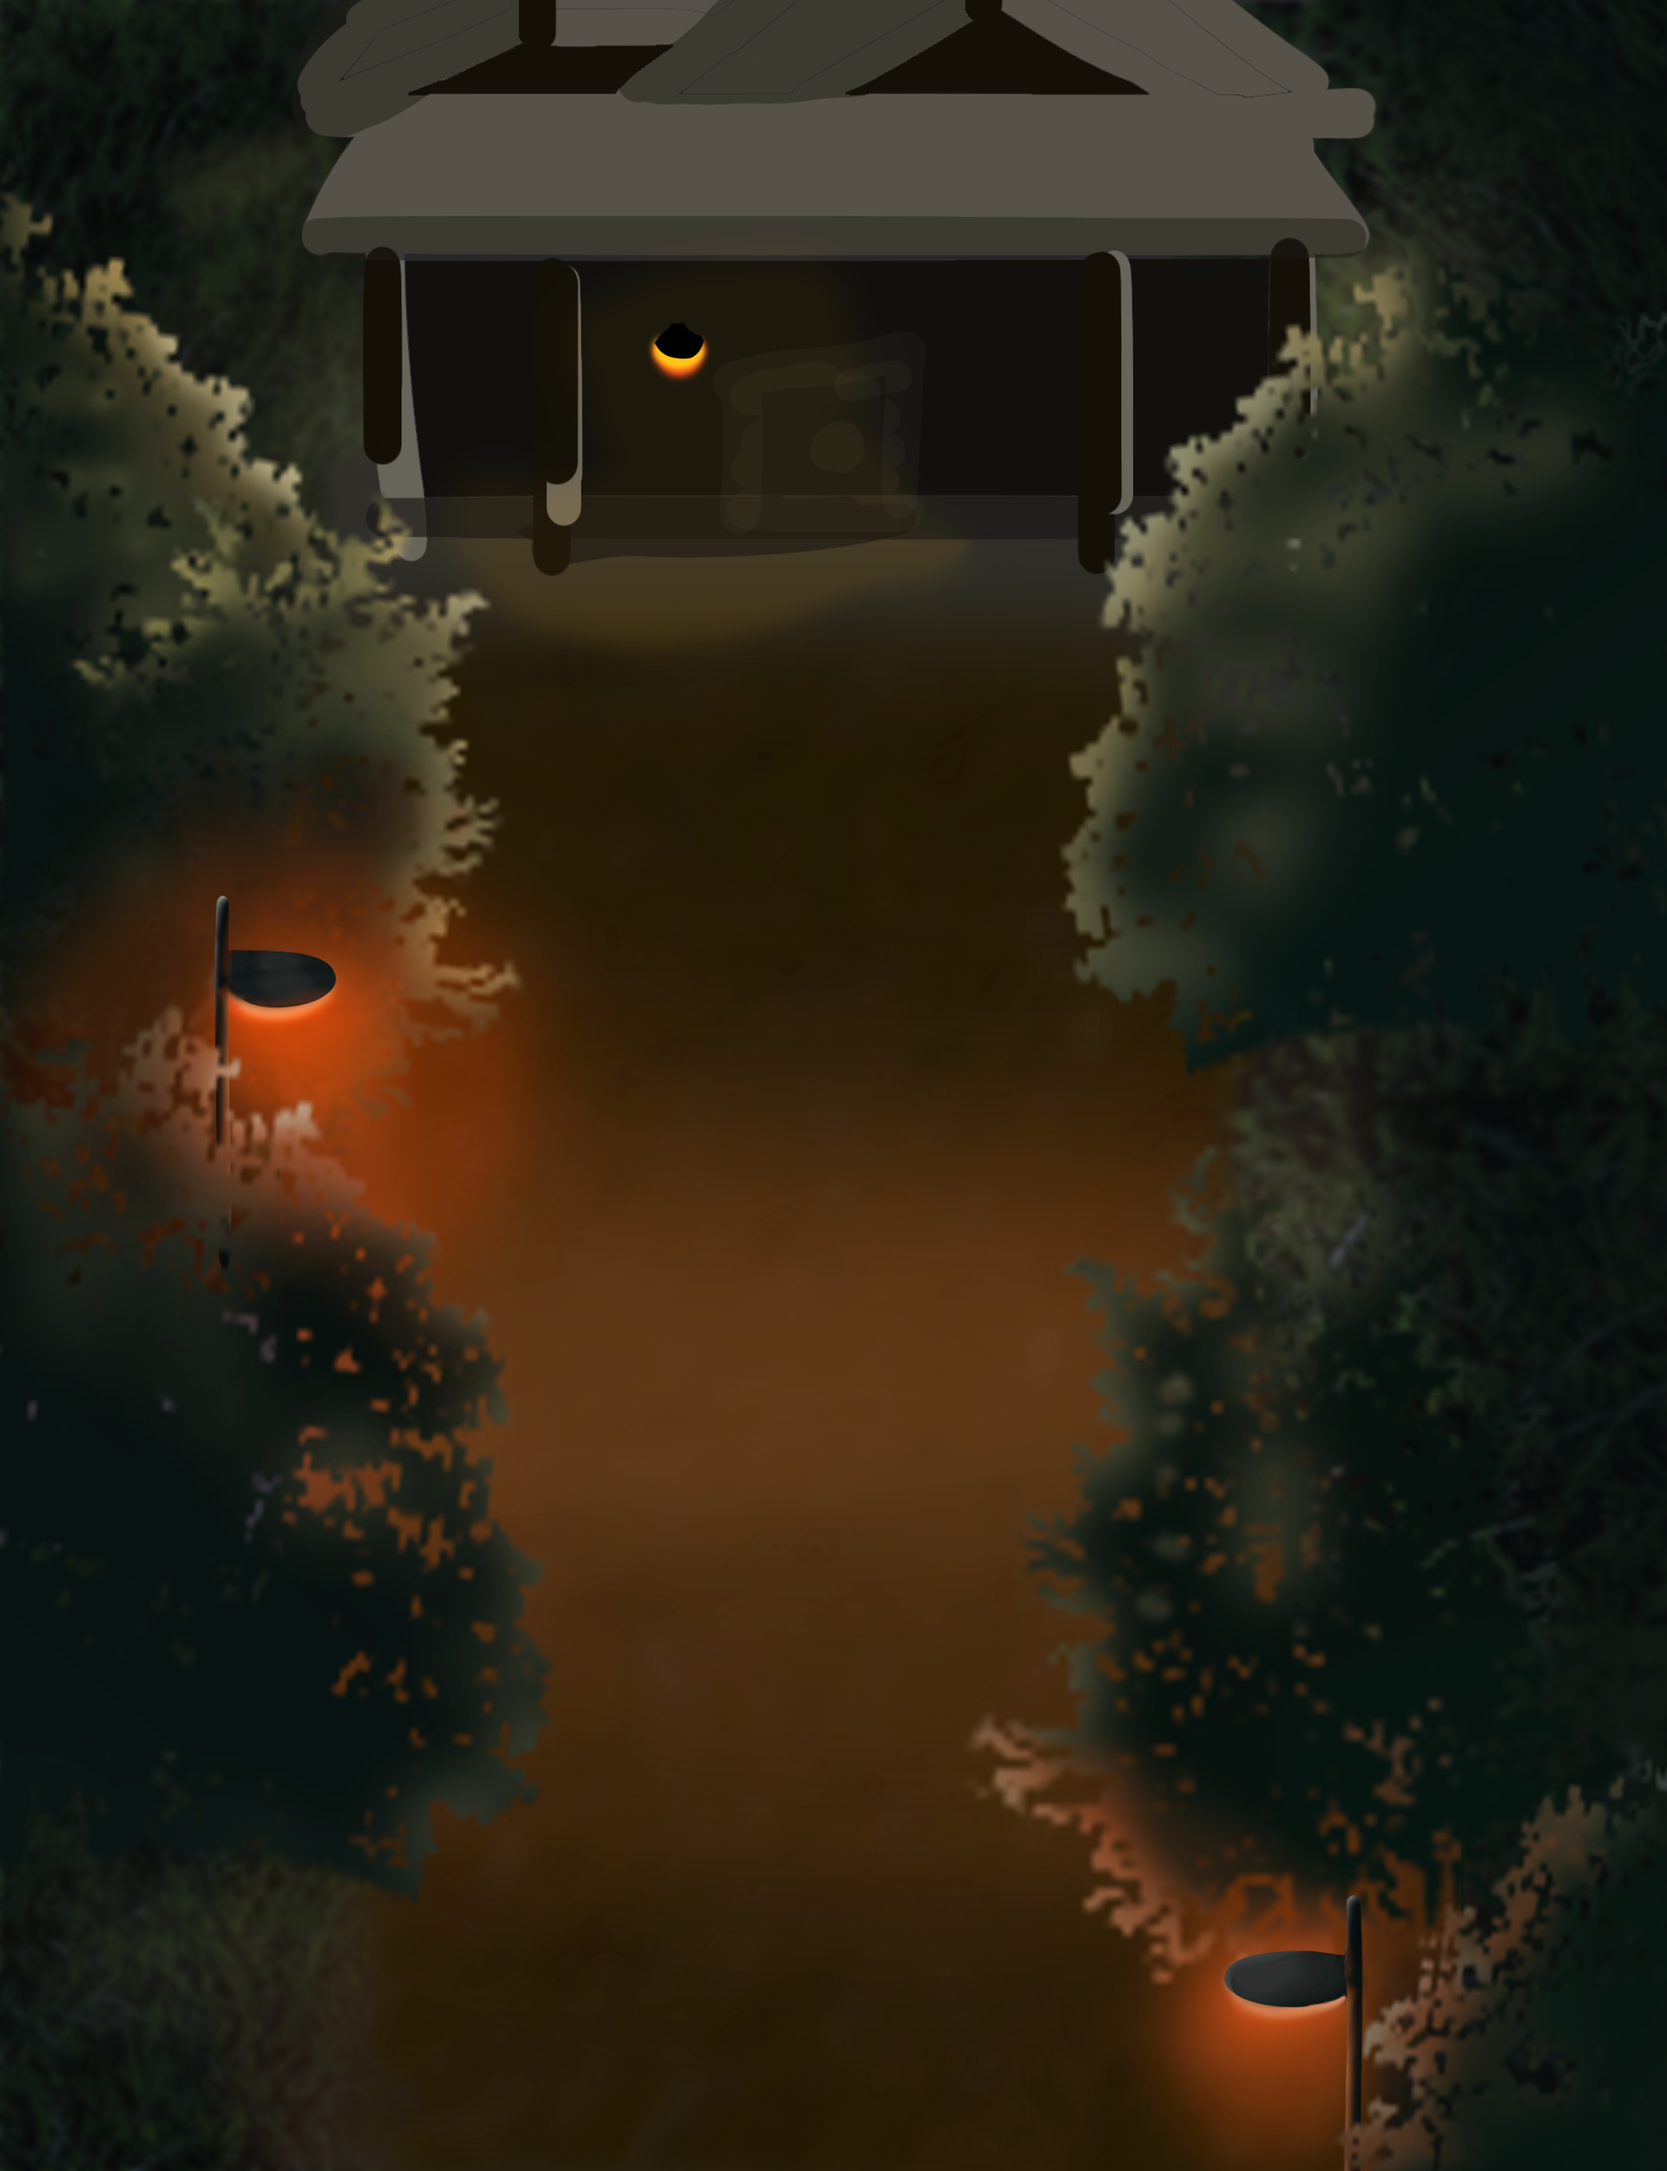
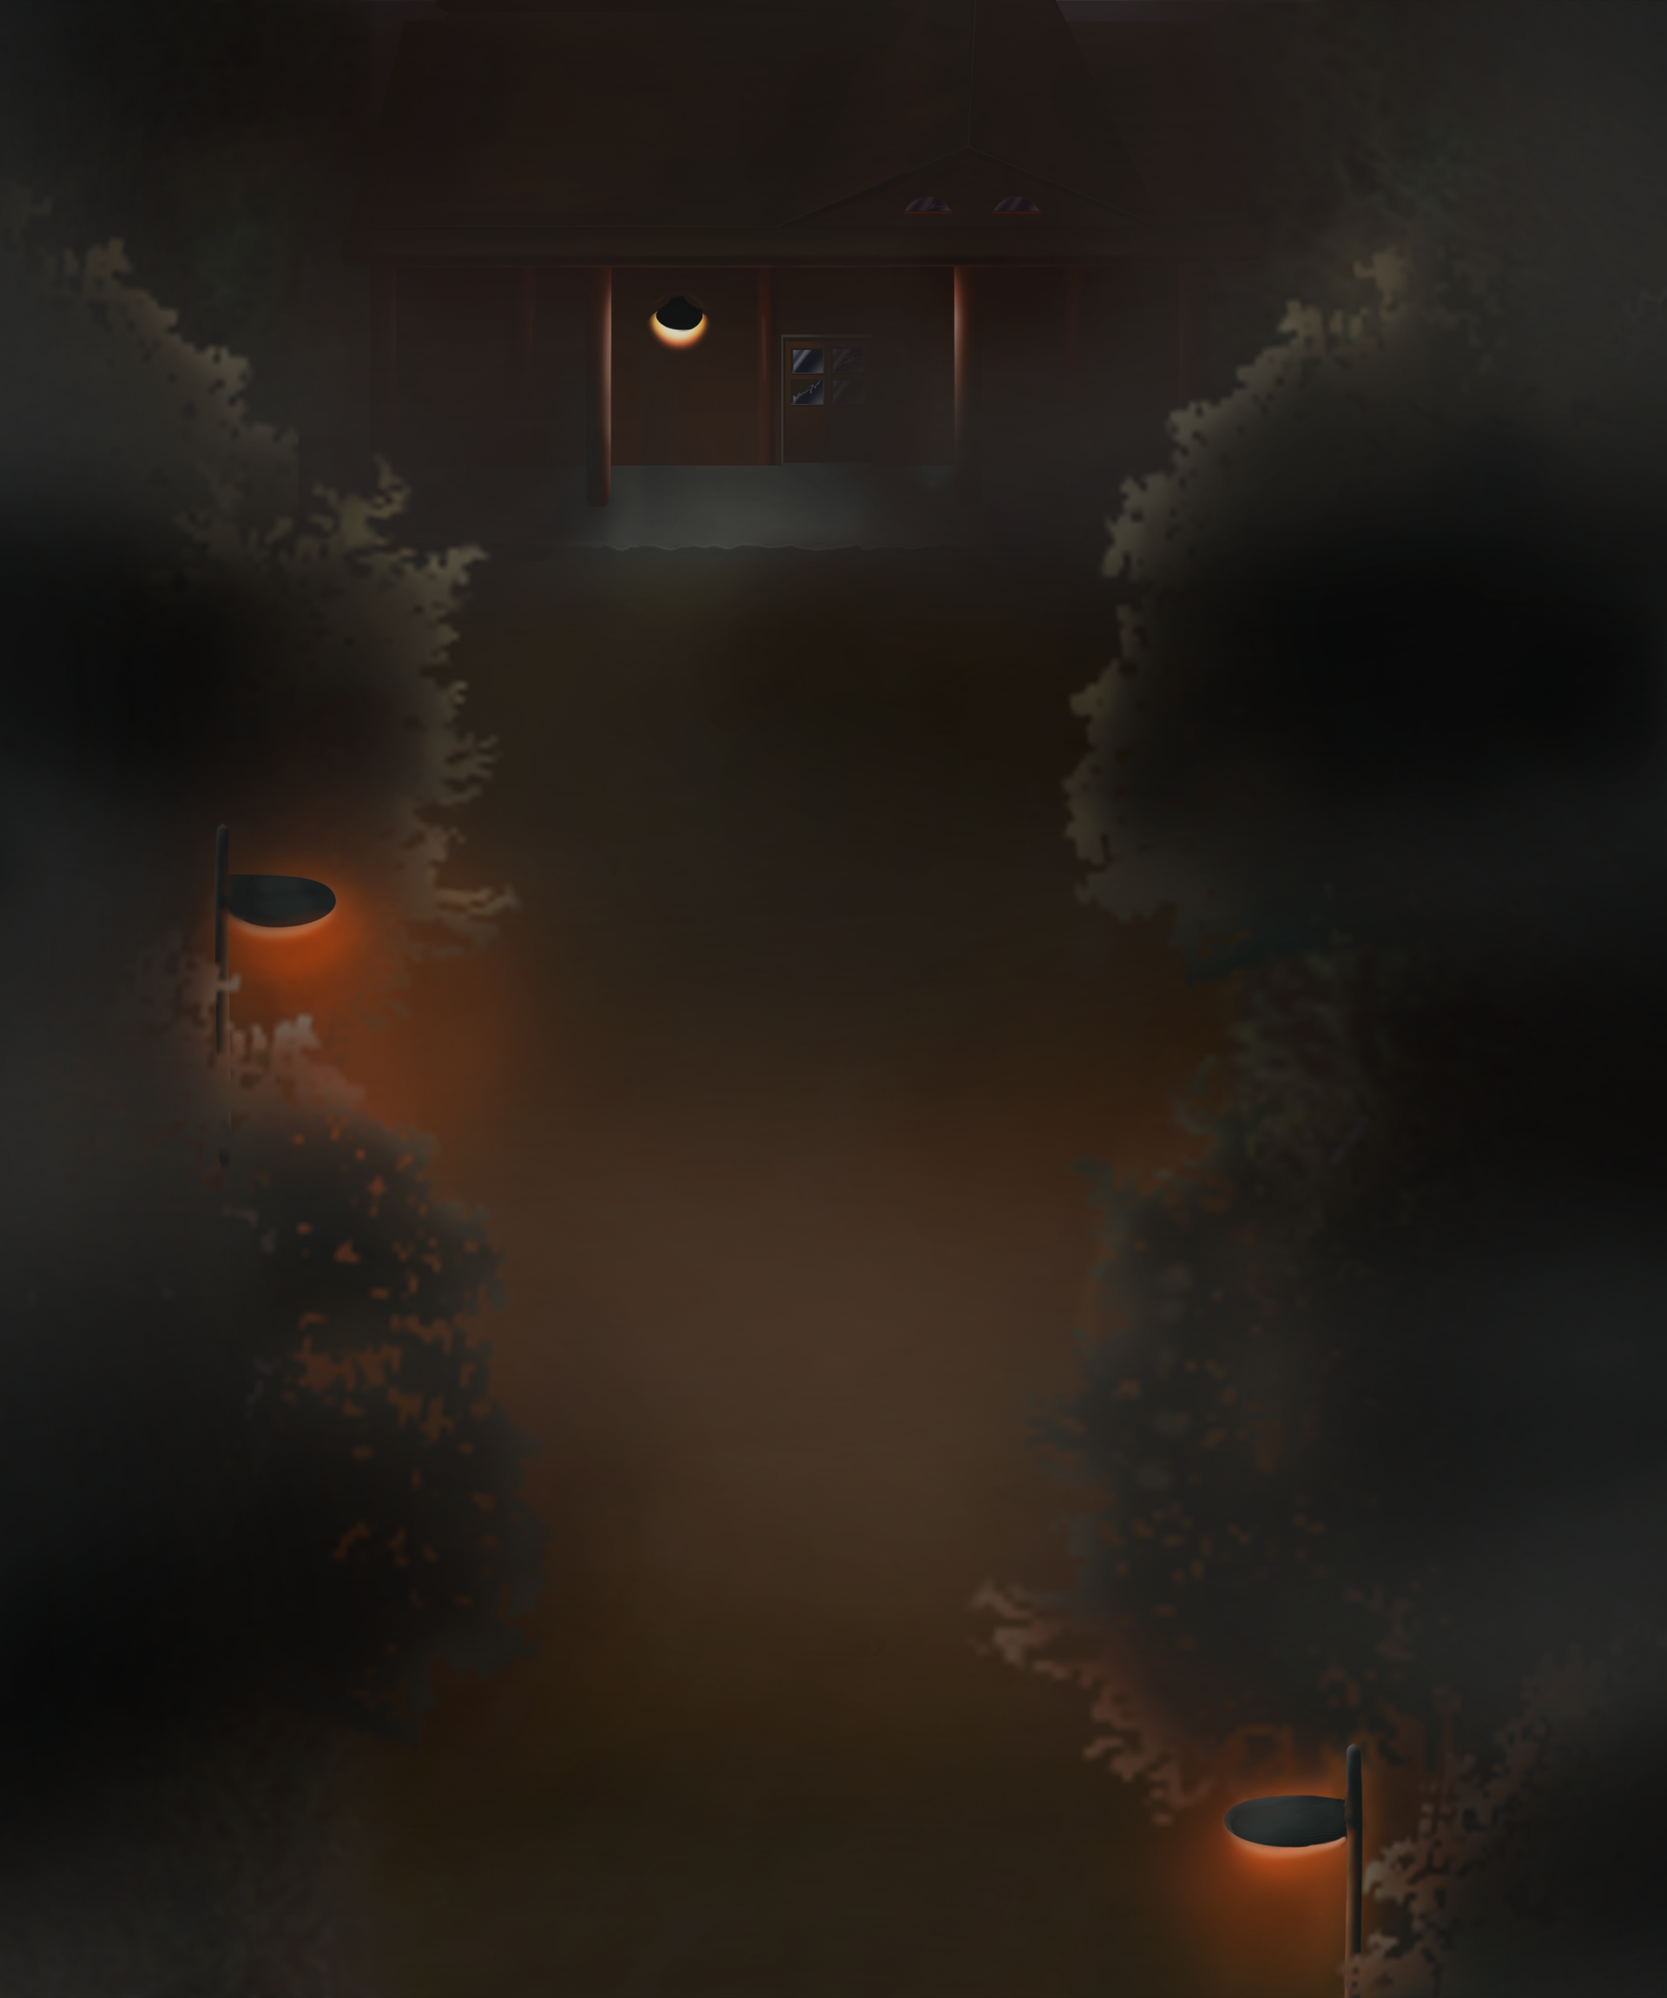
あたり判定改良 ムービー、大部屋、女子高生部屋画像張替え

diff --git a/後期チーム制作/Player.cpp b/後期チーム制作/Player.cpp
@@ -41,8 +41,8 @@ void InitSearchPlayer()
 	}
 	else
 	{
-		searchplayer.pos_x = 820.0f;
-		searchplayer.pos_y = 890.0f;
+		searchplayer.pos_x = 880.0f;
+		searchplayer.pos_y = 950.0f;
 		searchplayer.animetion_tu = 0.0f;
 		searchplayer.animetion_tv = 0.5f;
 	}
@@ -130,9 +130,6 @@ void SearchPlayerControl(float upmax, float downmax, float leftmax, float rightm
 	searchplayer.oldpos_x = searchplayer.pos_x;
 	searchplayer.oldpos_y = searchplayer.pos_y;
 
-	float vec_x = 0.0f;
-	float vec_y = 0.0f;
-	float length = 0.0f;
 
 	if (GetKey(UP_KEY) == true)
 	{
@@ -148,13 +145,6 @@ void SearchPlayerControl(float upmax, float downmax, float leftmax, float rightm
 			{
 				searchplayer.animetion_tu += 0.25f;
 				searchplayer.animetioncount = 0;
-			}
-			if((searchplayer.pos_x < searchrobot.pos_x +searchrobot.width)
-				&& (searchplayer.pos_x + 64.0f > searchrobot.pos_x)
-				&& (searchplayer.pos_y + 64.0f < searchrobot.pos_y + searchrobot.height)
-				&& (searchplayer.pos_y + 128.0f > searchrobot.pos_y))
-			{
-				searchplayer.pos_y = searchplayer.oldpos_y;
 			}
 		}
 	}
@@ -178,13 +168,6 @@ void SearchPlayerControl(float upmax, float downmax, float leftmax, float rightm
 				searchplayer.animetion_tu += 0.25f;
 				searchplayer.animetioncount = 0;
 			}
-			if ((searchplayer.pos_x < searchrobot.pos_x + searchrobot.width)
-				&& (searchplayer.pos_x + 64.0f > searchrobot.pos_x)
-				&& (searchplayer.pos_y + 64.0f < searchrobot.pos_y + searchrobot.height)
-				&& (searchplayer.pos_y + 128.0f > searchrobot.pos_y))
-			{
-				searchplayer.pos_y = searchplayer.oldpos_y;
-			}
 		}
 	}
 
@@ -205,13 +188,6 @@ void SearchPlayerControl(float upmax, float downmax, float leftmax, float rightm
 				searchplayer.animetion_tu += 0.25f;
 				searchplayer.animetioncount = 0;
 			}
-			if ((searchplayer.pos_x < searchrobot.pos_x + searchrobot.width)
-				&& (searchplayer.pos_x + 64.0f > searchrobot.pos_x)
-				&& (searchplayer.pos_y + 64.0f < searchrobot.pos_y + searchrobot.height)
-				&& (searchplayer.pos_y + 128.0f > searchrobot.pos_y))
-			{
-				searchplayer.pos_x = searchplayer.oldpos_x;
-			}
 		}
 	}
 	else if (GetKey(RIGHT_KEY) == true)
@@ -230,31 +206,22 @@ void SearchPlayerControl(float upmax, float downmax, float leftmax, float rightm
 				searchplayer.animetion_tu += 0.25f;
 				searchplayer.animetioncount = 0;
 			}
-			if ((searchplayer.pos_x < searchrobot.pos_x + searchrobot.width)
-				&& (searchplayer.pos_x + 64.0f > searchrobot.pos_x)
-				&& (searchplayer.pos_y + 64.0f < searchrobot.pos_y + searchrobot.height)
-				&& (searchplayer.pos_y + 128.0f > searchrobot.pos_y))
-			{
-				searchplayer.pos_x = searchplayer.oldpos_x;
-			}
 		}
 	}
 	else 
 		searchplayer.animetion_tu = 0.0f;
 
-	/*if (vec_x != 0.0f || vec_y != 0.0f)
+	
+}
+
+void UpDataPlayerPos()
+{
+	if (searchrobot.hit == true)
 	{
-		length = sqrt(vec_x * vec_x + vec_y * vec_y);
-
-		float normal_x = vec_x / length;
-		float normal_y = vec_y / length;
-
-		normal_x *= searchplayer.movespeed;
-		normal_y *= searchplayer.movespeed;
-
-		searchplayer.pos_x += normal_x;
-		searchplayer.pos_y += normal_y;
-	}*/
+		searchplayer.pos_x = searchplayer.oldpos_x;
+		searchplayer.pos_y = searchplayer.oldpos_y;
+	}
+	
 }
 
 

diff --git a/後期チーム制作/Robot.cpp b/後期チーム制作/Robot.cpp
@@ -14,14 +14,14 @@ SearchRobotData searchrobot;
 
 void InitRobot()
 {
-	robot.pos_x = 960.0f;
+	robot.pos_x = 860.0f;
 	robot.pos_y = 200.0f;
 }
 
 void InitSearchRobot()
 {
-	searchrobot.pos_x = 880.0f;
-	searchrobot.pos_y = 600.0f;
+	searchrobot.pos_x = 800.0f;
+	searchrobot.pos_y = 400.0f;
 	searchrobot.height = 128.0f;
 	searchrobot.width = 64.0f;
 	searchrobot.hit = false;
@@ -61,6 +61,5 @@ void HitSearchPlayerRobot()
 	{
 		searchrobot.hit = false;
 	}
-	
 	
 }

diff --git a/後期チーム制作/Item.cpp b/後期チーム制作/Item.cpp
@@ -1,13 +1,23 @@
 #include"Item.h"
 #include "Graphics.h"
 #include "Texture.h"
-
+#include "Hit.h"
 void DrawRobotNeck()
 {
 	DrawTexture(700.0f, 500.0f, GetTexture(TEXTURE_SEARCH_GAME, SearchGameCategoryTextureList::SearchGameRobotNeckTex));
 }
 
-
+//void HitObject()
+//{
+//	if (HitPlayerObject() == true)
+//	{
+//		searchrobot.hit = true;
+//	}
+//	else
+//	{
+//		searchrobot.hit = false;
+//	}
+//}
 
 
 

diff --git a/後期チーム制作/Title.cpp b/後期チーム制作/Title.cpp
@@ -76,7 +76,7 @@ SceneId FinishTitleScene()
 {
 	ReleaseCategoryTexture(TEXTURE_TITLE);
 
-	//return SceneId::MovieScene;
-	//return SceneId::MovieScene;
-	return SceneId::SearchGameScene;
+	return SceneId::MovieScene;
+	
+	//return SceneId::SearchGameScene;
 }

diff --git a/後期チーム制作/Bg.cpp b/後期チーム制作/Bg.cpp
@@ -74,7 +74,7 @@ void UpDateBg()
 			if (bgdate.stopcount == MOVIE_STOP_TIME)
 			{
 				bgdate.movespeed = -0.002f;
-				movieplayer.movespeed -= 4.9;
+				movieplayer.movespeed -= 4.7;
 			}
 
 		}

diff --git a/後期チーム制作/Player.h b/後期チーム制作/Player.h
@@ -57,5 +57,6 @@ void UpDateMoviePlayer();
 
 void SearchPlayerControl(float upmax, float downmax, float leftmax, float rightmax);
 
+void UpDataPlayerPos();
 
 #endif
